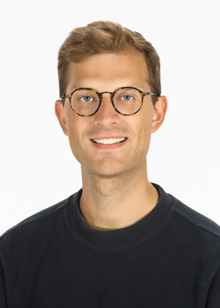
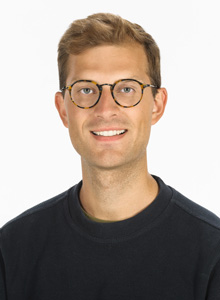
scriptworlds edit image sizes

diff --git a/pages/groups/scriptworlds/index.md b/pages/groups/scriptworlds/index.md
@@ -7,18 +7,18 @@ layout: default
 ## Scriptworlds
 
 **Lead UCSB Faculty**
-  Sowon S Park (English; Cognitive Science Emphasis and Comparative Literature Affiliate)
+> Sowon S Park (English; Cognitive Science Emphasis and Comparative Literature Affiliate)
 
 **Core Investigators**
-  Prof. Sowon Park
-  Prof. Matthew Reynolds (Oxford)
+> Prof. Sowon Park
+> Prof. Matthew Reynolds (Oxford)
 
 **Graduate Associate Researchers**
-  David Hur (UCSB; Comparative Literature)
-  Daniel Martini Tybjerg (UCSB; Comparative Literature)
+> David Hur (UCSB; Comparative Literature)
+> Daniel Martini Tybjerg (UCSB; Comparative Literature)
 
 **Artist**
-  Ethan Turpin (Santa Barbara; [ethanturpin.com](http://ethanturpin.com/))
+> Ethan Turpin (Santa Barbara; [ethanturpin.com](http://ethanturpin.com/))
 
 ---
 
@@ -40,6 +40,6 @@ For example, T S Eliot’s 'Four Quartets', read by the poet himself, will be an
 
 The objective of **Scriptworlds** is to build a new framework within which to think about language, literature and translation and to create a place for literature to find new relevance in the context of the notable advances that have been made in recent years on the neuroscience of reading and in digital technology. The final showcase event will be an accessible and aesthetic embodiment of our 4-years’ research, a visual apotheosis of the **Prismatic Translation** project.
 
-<img alt="Sowon S Park, Lead UCSB Faculty" src="{{ site.baseurl }}/assets/images/groups-scriptworlds-park.jpg" align="left" style="padding:10px;" width="220" />
-<img alt="David Hur, Graduate Associate Researcher" src="{{ site.baseurl }}/assets/images/groups-scriptworlds-hur.jpg" align="left" style="padding:10px;" width="220" />
-<img alt="Daniel Martini Tybjerg, Graduate Associate Researcher" src="{{ site.baseurl }}/assets/images/groups-scriptworlds-martini.jpg" align="left" style="padding:10px;" width="220" />
+<img alt="Sowon S Park, Lead UCSB Faculty" src="{{ site.baseurl }}/assets/images/groups-scriptworlds-park.jpg" align="left" style="padding:10px;" />
+<img alt="David Hur, Graduate Associate Researcher" src="{{ site.baseurl }}/assets/images/groups-scriptworlds-hur.jpg" align="left" style="padding:10px;" />
+<img alt="Daniel Martini Tybjerg, Graduate Associate Researcher" src="{{ site.baseurl }}/assets/images/groups-scriptworlds-martini.jpg" align="left" style="padding:10px;" />
